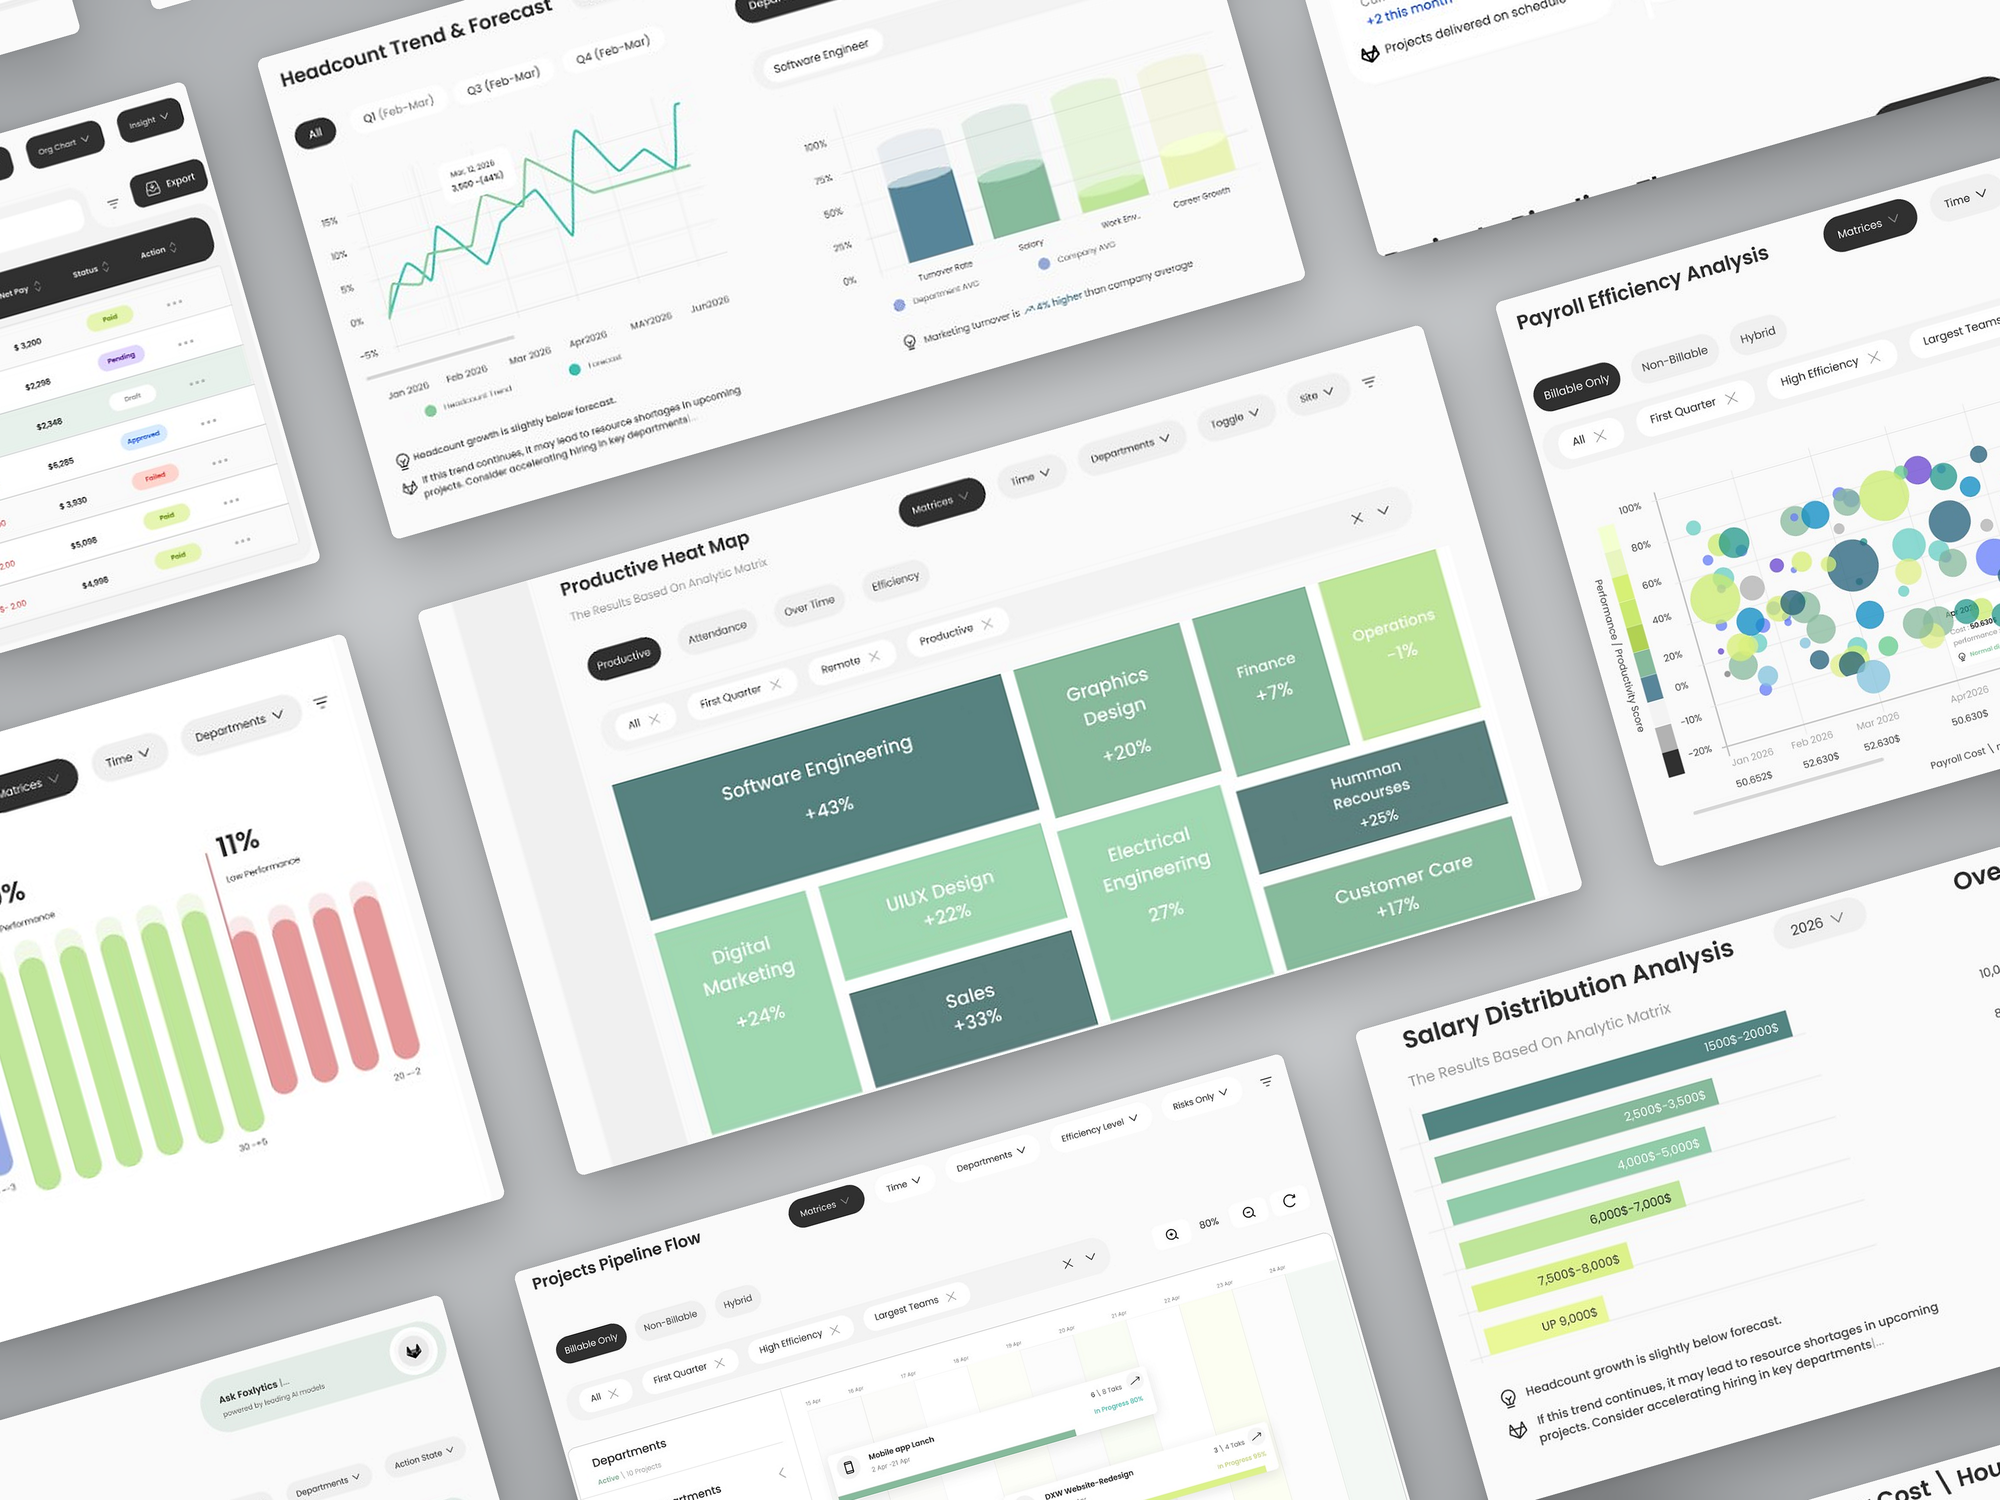
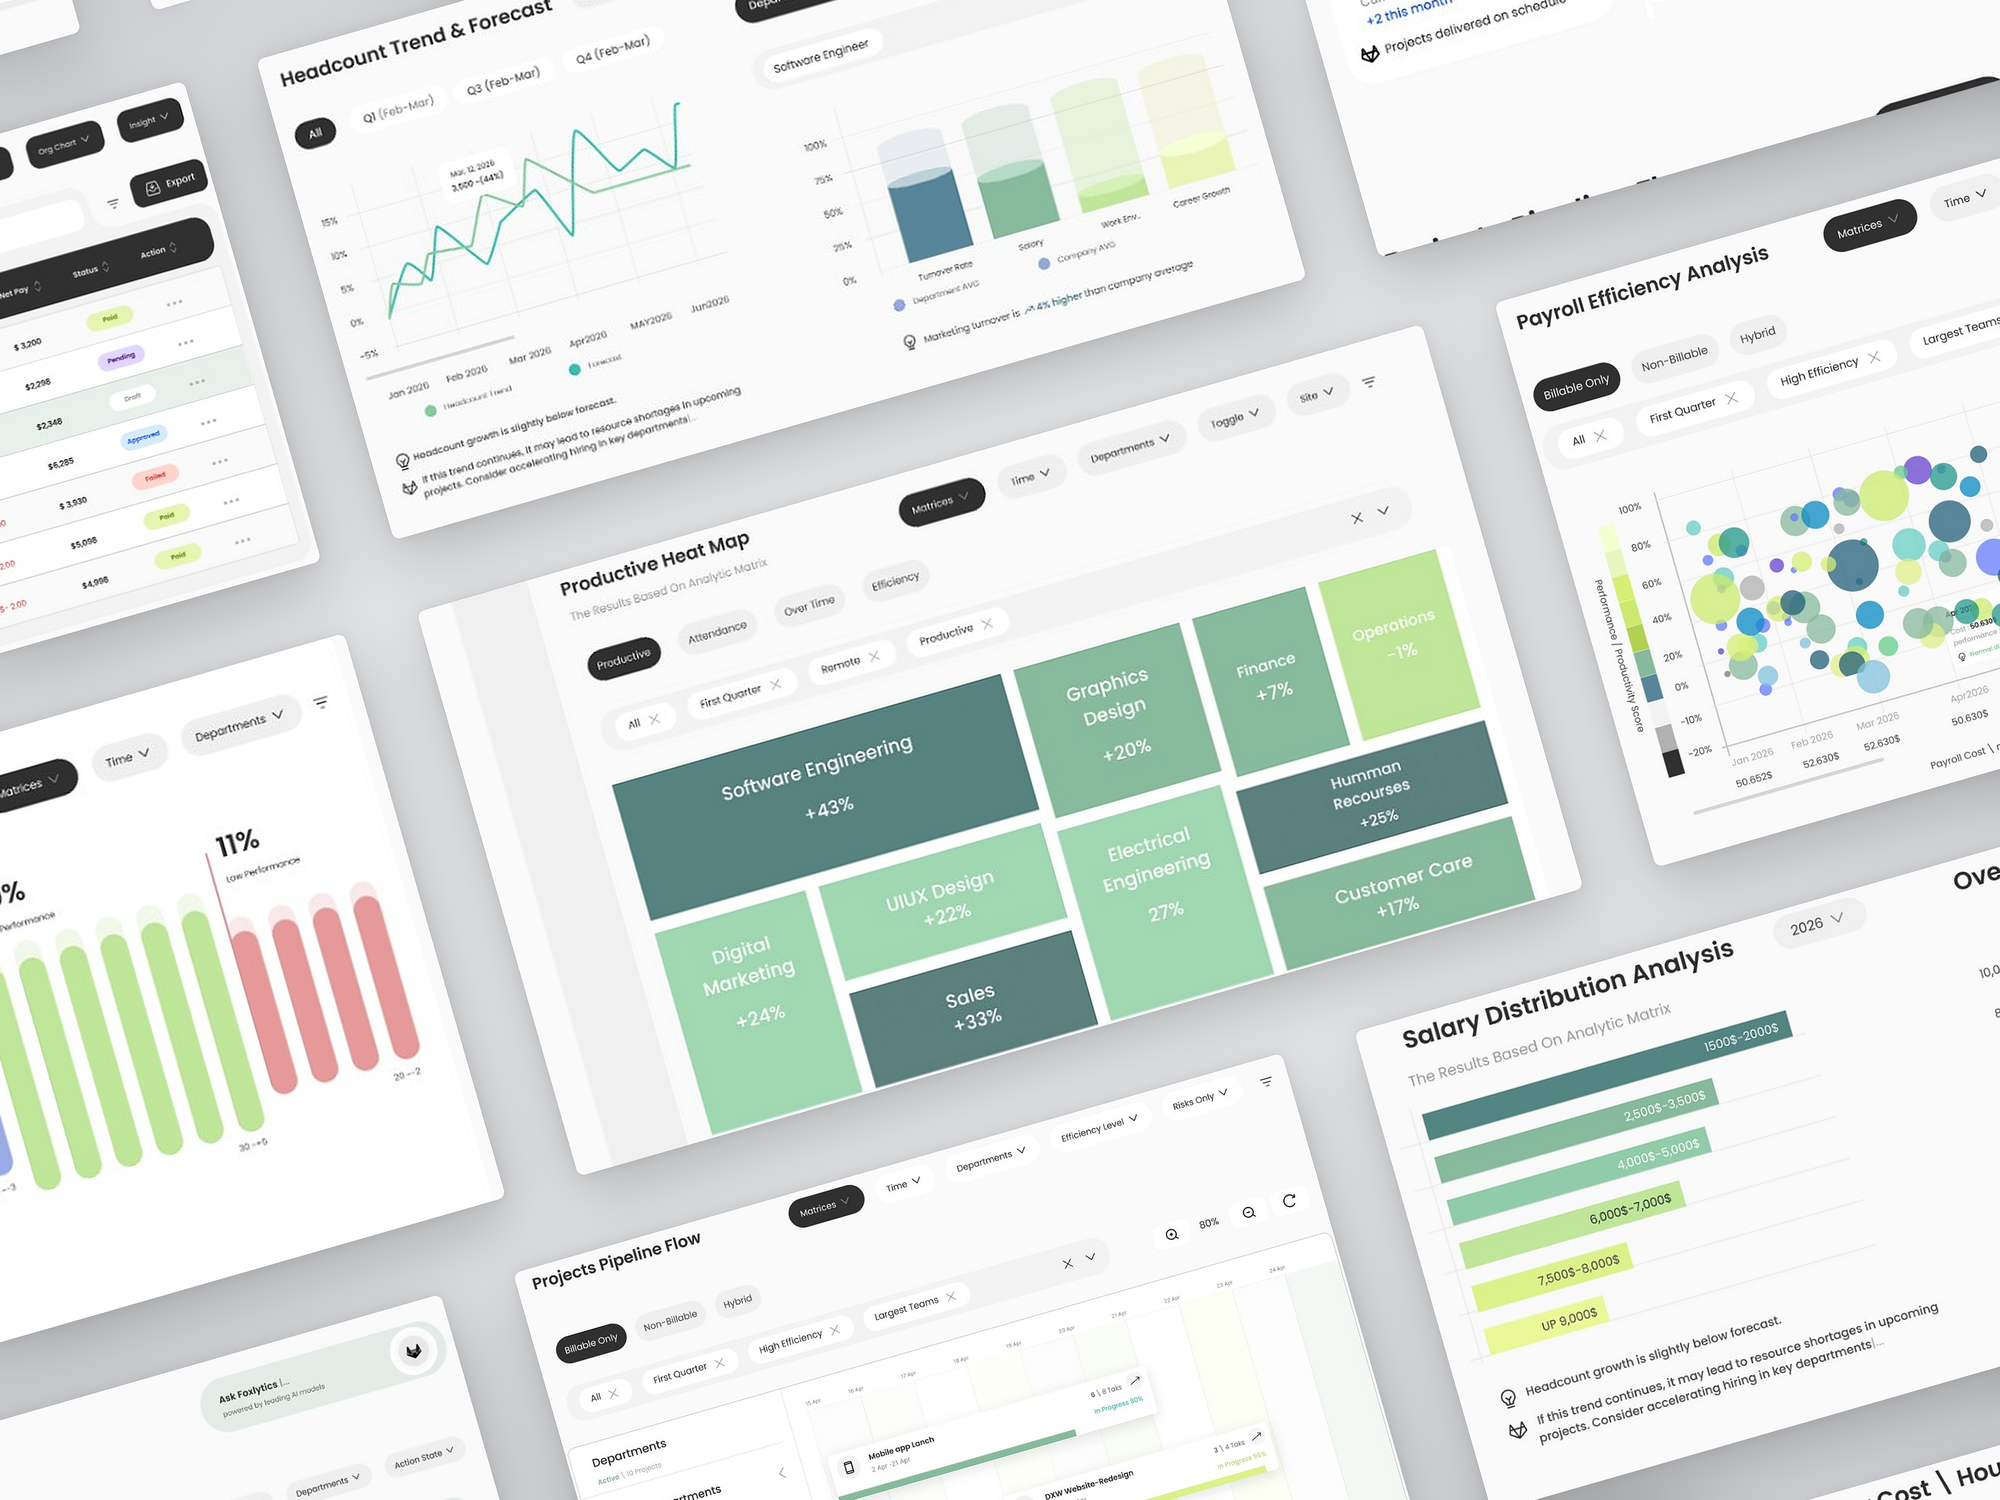
Tilted wall studio slide: lighter backdrop and softer shadows
Claude-Session: https://claude.ai/code/session_01FdYAnoP1AuAPuCnLWf7gdc

Changed region(s): [[0.0, 0.0, 1.0, 1.0], [0.775, 0.8893, 1.0, 1.0]]

diff --git a/behance-cover/mockups/set28p.py b/behance-cover/mockups/set28p.py
@@ -6,7 +6,7 @@ import numpy as np
 from PIL import Image, ImageDraw, ImageFilter
 I = '/tmp/claude-0/-home-user-claude-Ai-website-1/fd49522e-f0ff-52ed-b6c7-08cca43cc4fd/images/'
 BG = (24, 24, 24)
-C_IN, C_OUT = (214, 216, 218), (171, 174, 177)
+C_IN, C_OUT = (236, 237, 239), (206, 208, 211)
 SN = {   # source, x0, y0, crop width, aspect
     'heat':   ('224.jpg', -8, 826, 826, 1.78),     # Analytics: Productive Heat Map
     'bubble': ('221.jpg', 180, 470, 1300, 1.67),   # Payroll: Efficiency Analysis bubbles
@@ -63,7 +63,7 @@ def render(F):
     pass   # no grain: keeps the PNG under 5 MB; the gradient is smooth enough at 8 bits
     # soft, wide contact shadows under the cards (offset down, as if lit from above)
     from scipy import ndimage
-    sh = ndimage.shift(m, (18 * F, 6 * F), order=1); sh = ndimage.gaussian_filter(sh, 26 * F) * 0.30 + ndimage.gaussian_filter(m, 5 * F) * 0.10
+    sh = ndimage.shift(m, (18 * F, 6 * F), order=1); sh = ndimage.gaussian_filter(sh, 26 * F) * 0.20 + ndimage.gaussian_filter(m, 5 * F) * 0.07
     bg = bg * (1 - np.clip(sh, 0, 0.45))[..., None]
     out = bg * (1 - m[..., None]) + cards * m[..., None]
     return Image.fromarray(out.clip(0, 255).astype(np.uint8))
